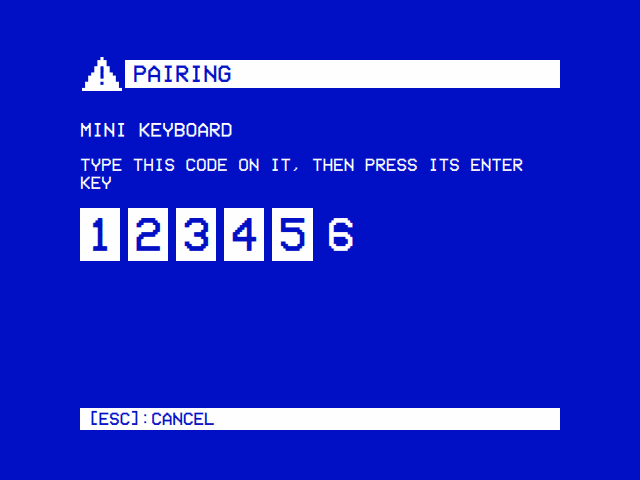
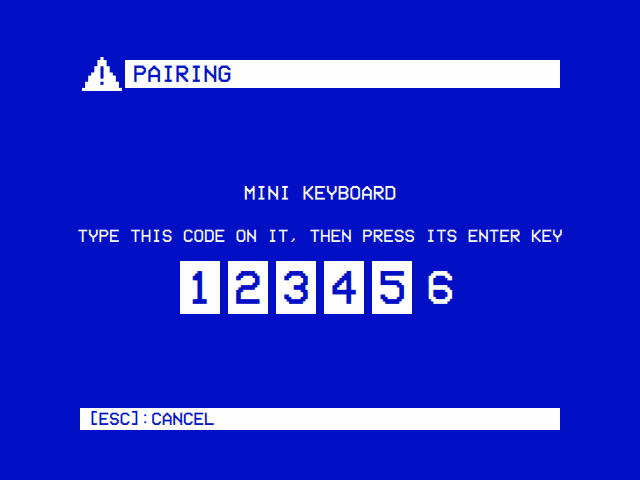
feat: a prompt's lines in the middle of its window
The owner asked for the question and notice windows' content to be
centred both ways. PromptScreen keeps its title bar and hint bar where
every view has them, and puts what it is about, anything declared in it
and the answers in the middle of the space between them, each line
centred across the window. Bluetooth pairing centres its instruction
and code to match.

The README's resume, quit, options and pairing screenshots are retaken.

Claude-Session: https://claude.ai/code/session_01BPj7F5bUAW2FbHbUrDiQbs

Changed region(s): [[0.125, 0.3125, 0.875, 0.6562], [0.125, 0.25, 0.375, 0.2812]]

diff --git a/views/Components/PromptScreen.qml b/views/Components/PromptScreen.qml
@@ -2,13 +2,13 @@ import QtQuick
 
 // A question or a notice, full screen, in the window every view has: the
 // question in the title bar behind a ? (a notice, an error say, behind a !),
-// what it is about under the bar, the answers as the menus' rows, and the
-// hint line at the foot, where every view keeps it. However few lines it has,
-// nothing moves up into the middle of the screen.
+// the hint line at the foot, where every view keeps it, and between them, in
+// the middle of the space they leave both ways, what it is about and the
+// answers. However few lines it has, the bars stay where they are.
 //
 // It only draws: the host keeps its keys and the cursor (currentIndex), and
 // shows it (visible). Items declared inside it go under the message, above the
-// answers (BluetoothPrompt's code).
+// answers (BluetoothPrompt's code); they centre themselves across its width.
 //
 //     PromptScreen {
 //         visible: overlayVisible
@@ -40,6 +40,7 @@ Rectangle {
     color: root.surfaceColor
 
     AppBar {
+        id: titleBar
         iconSource: prompt.kind === "notice" ? "../../assets/images/notice.svg"
                                              : "../../assets/images/question.svg"
         title: prompt.title
@@ -49,14 +50,19 @@ Rectangle {
         anchors.leftMargin: root.sw * 0.125 //80
     }
 
-    // Where the menus' rows start, their text lined up with the bar's.
-    Column {
-        anchors.top: parent.top
+    // The space between the bars.
+    Item {
+        id: middle
+        anchors.top: titleBar.bottom
+        anchors.bottom: hintBar.top
         anchors.left: parent.left
-        anchors.topMargin: root.sh * 0.25 //120
-        anchors.leftMargin: root.sw * 0.115625 //74
+        anchors.right: parent.right
+    }
+
+    Column {
+        anchors.centerIn: middle
         width: root.sw * 0.76875 //492
-        spacing: root.sh * 0.0333333 //16
+        spacing: root.sh * 0.05 //24
 
         Text {
             visible: prompt.message !== ""
@@ -67,8 +73,7 @@ Rectangle {
             font.capitalization: Font.AllUppercase
             font.pixelSize: root.sh * 0.0416667 //20
             wrapMode: Text.WordWrap
-            leftPadding: root.sw * 0.009375 //6
-            rightPadding: root.sw * 0.009375 //6
+            horizontalAlignment: Text.AlignHCenter
         }
 
         Item {
@@ -96,7 +101,7 @@ Rectangle {
 
                     Text {
                         id: label
-                        anchors.verticalCenter: parent.verticalCenter
+                        anchors.centerIn: parent
                         width: Math.min(implicitWidth, parent.width)
                         text: typeof modelData === "string" ? modelData : (modelData.label || "")
                         color: index === prompt.currentIndex ? root.surfaceColor : root.primaryColor
@@ -115,6 +120,7 @@ Rectangle {
     }
 
     HintBar {
+        id: hintBar
         text: prompt.hint
         anchors.bottom: parent.bottom
         anchors.left: parent.left

diff --git a/views/BluetoothPrompt.qml b/views/BluetoothPrompt.qml
@@ -68,13 +68,12 @@ FocusScope {
                 font.capitalization: Font.AllUppercase
                 font.pixelSize: root.sh * 0.0375 //18
                 wrapMode: Text.WordWrap
-                leftPadding: root.sw * 0.009375 //6
-                rightPadding: root.sw * 0.009375 //6
+                horizontalAlignment: Text.AlignHCenter
             }
 
             // The code, a box per digit: those typed so far solid.
             Row {
-                x: root.sw * 0.009375 //6
+                anchors.horizontalCenter: parent.horizontalCenter
                 spacing: root.sw * 0.0125 //8
                 Repeater {
                     model: promptRoot.code.length

diff --git a/ARCHITECTURE.md b/ARCHITECTURE.md
@@ -620,7 +620,7 @@ The module's logo stands at its left end, in the theme's text colour, a fifth ta
 
 ### PromptScreen (`views/Components/PromptScreen.qml`)
 
-A question or a notice, full screen, in the window every view has, so a dialog's lines never move up into the middle of the screen: the question in the title bar (an `AppBar`) behind a **?**, or a notice's (an error, a code to type, a button to press) behind a **!**; what it is about under the bar; the answers as the main menu's rows, where its rows start; and the hint line in its fixed place at the foot. However few lines it has, the bar and the hint line stay where every view has them.
+A question or a notice, full screen, in the window every view has: the question in the title bar (an `AppBar`) behind a **?**, or a notice's (an error, a code to type, a button to press) behind a **!**; the hint line in its fixed place at the foot; and between them, centred both ways in the space the bars leave, what it is about and the answers, as the main menu's rows. However few lines it has, the bar and the hint line stay where every view has them.
 
 | Property | Type | Description |
 |---|---|---|
@@ -631,7 +631,7 @@ A question or a notice, full screen, in the window every view has, so a dialog's
 | `currentIndex` | `int` | The answer under the cursor |
 | `hint` | `string` | The hint line |
 
-It only draws: the host keeps its keys, its cursor and its visibility, so a dialog becomes one by swapping its drawing for it. Items declared inside it go between the message and the answers (the pairing code in `BluetoothPrompt`). Every question and notice in the app is one: the players' resume prompts and error screens, Settings' quit, the update's install, the script's run, a new button for Controls, Bluetooth pairing, and `ChoiceOverlay` (so `EntryOptions` and the Plex PLAY chooser) too.
+It only draws: the host keeps its keys, its cursor and its visibility, so a dialog becomes one by swapping its drawing for it. Items declared inside it go between the message and the answers, centring themselves across its width (the pairing code in `BluetoothPrompt`). Every question and notice in the app is one: the players' resume prompts and error screens, Settings' quit, the update's install, the script's run, a new button for Controls, Bluetooth pairing, and `ChoiceOverlay` (so `EntryOptions` and the Plex PLAY chooser) too.
 
 ### VCR OSD elements
 
